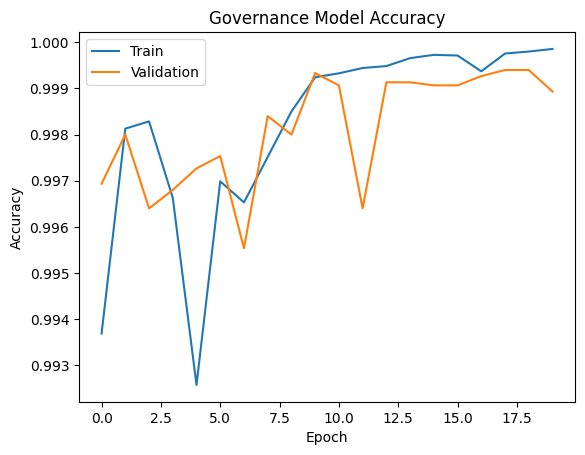
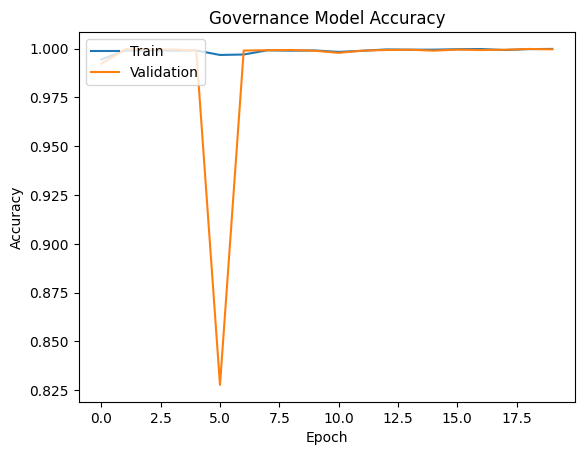
Governance model load and save

diff --git a/governance_class.py b/governance_class.py
@@ -1,13 +1,13 @@
 import pandas as pd
 import matplotlib.pyplot as plt
 from sklearn.model_selection import train_test_split
-from keras.models import Sequential
+from keras.models import Sequential, load_model
 from keras.layers import Dense
 
 class GovernanceModel:
 
     def __init__(self):
-        print('Training governance model')
+        print('Training governance model...')
         # During initialization, train the model
         self.df = pd.read_csv('data/governance_training.csv')
         X = self.df.iloc[:,1:28] # input features (GAO governance criteria)
@@ -29,31 +29,42 @@ class GovernanceModel:
                 Dense(units=1, activation='sigmoid')
             ])
             self.model.compile(optimizer='sgd', loss='binary_crossentropy', metrics='accuracy')
+            self.model.save("governance_model.h5")
+            model = load_model("governance_model.h5")
 
             """
             A rule of thumb for num_epochs is 3 times the number of input nodes. If the model 
             stops improving accuracy, then reduce num epochs. If the accuracy is still improving 
             after this, increase epochs.
             """
-            # Use verbose=0 to hide epoch values
-            hist = self.model.fit(X_train, Y_train, verbose=0, batch_size=32, epochs=20, validation_split=0.1, validation_data=(X_val, Y_val))
+            print("Fit model on training data:")
+            # Use verbose=0 to hide individual epoch values, validation_split=0.1 reserves 10% of training data for validation
+            hist = self.model.fit(X_train, Y_train, verbose='0', batch_size=32, epochs=20, validation_split=0.1, validation_data=(X_val, Y_val))
+
+            print("Evaluate model on test data:")
+            results = self.model.evaluate(X_test, Y_test, batch_size=128)
+            print("Test loss, test accuracy:", results)
+
+            '''
+            Retrieve list of accuracy history during training, returning the final value only if it exceeds 80%
+            '''
             #print(hist.history.keys())
             accuracy_list = hist.history['accuracy']
             if accuracy_list[-1] > 0.80:
                 done = True
-            
-        accuracy_list = hist.history['accuracy']
+        accuracy_list = hist.history['accuracy'] # type: ignore
         
-        plt.plot(hist.history['accuracy'])
-        plt.plot(hist.history['val_accuracy'])
+        # Plot model accuracy
+        plt.plot(hist.history['accuracy']) # type: ignore
+        plt.plot(hist.history['val_accuracy']) # type: ignore
         plt.title('Governance Model Accuracy')
         plt.ylabel('Accuracy')
         plt.xlabel('Epoch')
         plt.legend(['Train', 'Validation'], loc='upper left')
         plt.savefig('governance_accuracy.png', bbox_inches='tight')
         plt.clf()
-        print(f"DONE Governance Accuracy: {accuracy_list[-1]}")
-        
+        print(f"FINAL GOVERNANCE ACCURACY: {accuracy_list[-1]}")
+
 
     def predict(self, data):
         # data contains 27 input values
@@ -81,4 +92,3 @@ if __name__ == "__main__":
     #                90, 91, 92, 93, 94, 95, 96, 97, 98, 99,
     #                90, 91, 92, 93, 94, 95, 96]
     #governance_model.predict(example_data)
-    
